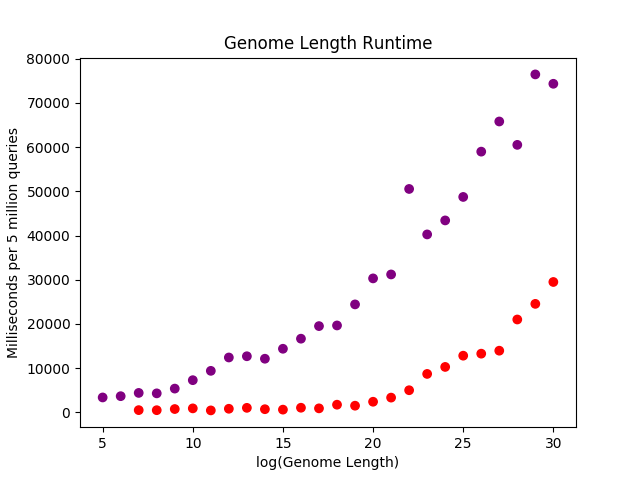
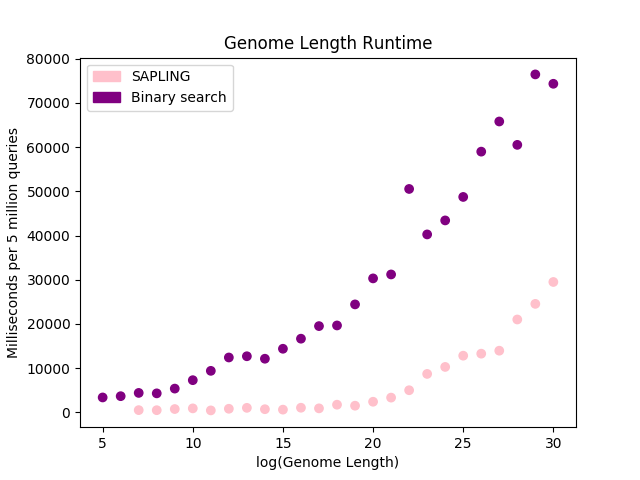
Added updated genome length runtime results

diff --git a/plot_genomelengthruntime.py b/plot_genomelengthruntime.py
@@ -4,18 +4,30 @@ matplotlib.use('Agg')
 import matplotlib.pyplot as plt
 import sys
 import math
+import matplotlib.patches as mpatches
+
+sapcolor = 'pink'
+bscolor = 'purple'
 
 bsfn = sys.argv[1]
 saplingfn = sys.argv[2]
 bsxs = []
 bsys = []
+
+length = 'Length: '
+bstime = 'Binary search time: '
+
 with open(bsfn) as f:
     lines = f.readlines()
+    lastx = 0
     for line in lines:
-        bsxs.append(float(line.split()[0]))
-        bsys.append(float(line.split()[1]))
+        if line.startswith(length):
+            lastx = math.log(float(line[len(length):]), 2)
+        if line.startswith(bstime):
+            bsxs.append(lastx)
+            bsys.append(1000*float(line[len(bstime):]))
 time = 'Piecewise linear time: '
-length = 'Length: '
+
 saplingxs = []
 saplingys = []
 with open(saplingfn) as f:
@@ -27,23 +39,28 @@ with open(saplingfn) as f:
         if line.startswith(time):
             saplingxs.append(lastx)
             saplingys.append(1000*float(line[len(time):]))
-print(saplingys)
+
 allxs = []
 allys = []
 colors = []
 for i in range(0, len(bsxs)):
     allxs.append(bsxs[i])
     allys.append(bsys[i])
-    colors.append('purple')
+    colors.append(bscolor)
     
 for i in range(0, len(saplingxs)):
     allxs.append(saplingxs[i])
     allys.append(saplingys[i])
-    colors.append('red')
+    colors.append(sapcolor)
     
 plt.scatter(x = allxs, y = allys, c = colors)
 
 plt.title('Genome Length Runtime')
 plt.xlabel('log(Genome Length)')
 plt.ylabel('Milliseconds per 5 million queries')
+
+sappatch = mpatches.Patch(color=sapcolor, label='SAPLING')
+bspatch = mpatches.Patch(color=bscolor, label='Binary search')
+plt.legend(handles=[sappatch, bspatch])
+
 plt.savefig(sys.argv[3])

diff --git a/plot_querylengthruntime.py b/plot_querylengthruntime.py
@@ -1,0 +1,27 @@
+import matplotlib
+matplotlib.use('Agg')
+import matplotlib.pyplot as plt
+import sys
+import math
+
+fn = sys.argv[1]
+
+time = 'Piecewise linear time: '
+length = 'Query Length: '
+saplingxs = []
+saplingys = []
+with open(fn) as f:
+    lines = f.readlines()
+    lastx = 0
+    for line in lines:
+        if line.startswith(length):
+            lastx = float(line[len(length):])
+        if line.startswith(time):
+            saplingxs.append(lastx)
+            saplingys.append(1000*float(line[len(time):]))
+            
+plt.scatter(saplingxs, saplingys)
+plt.title('Query Length Runtime')
+plt.xlabel('Query Length')
+plt.ylabel('Milliseconds per 5 million queries')
+plt.savefig(sys.argv[2])
